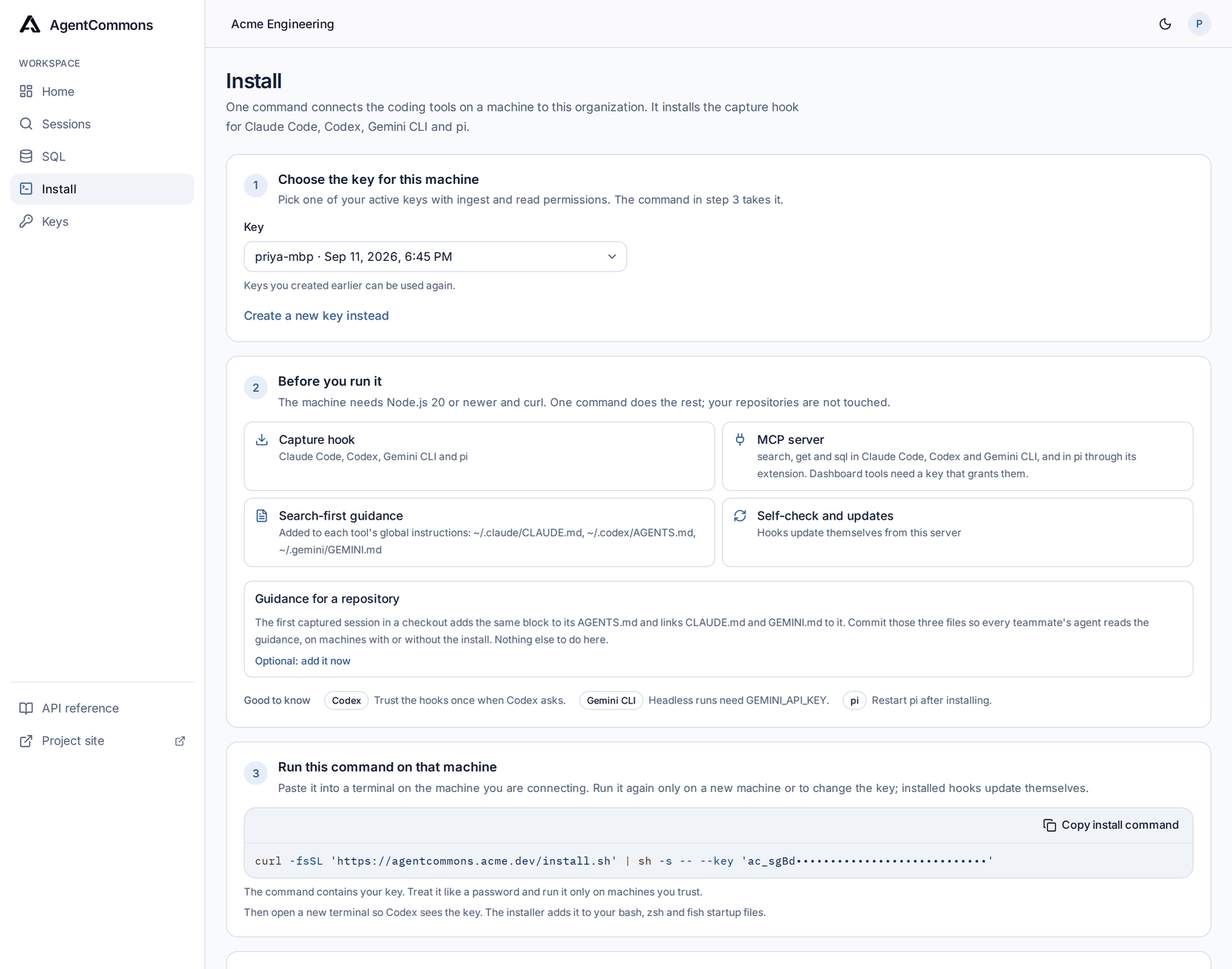
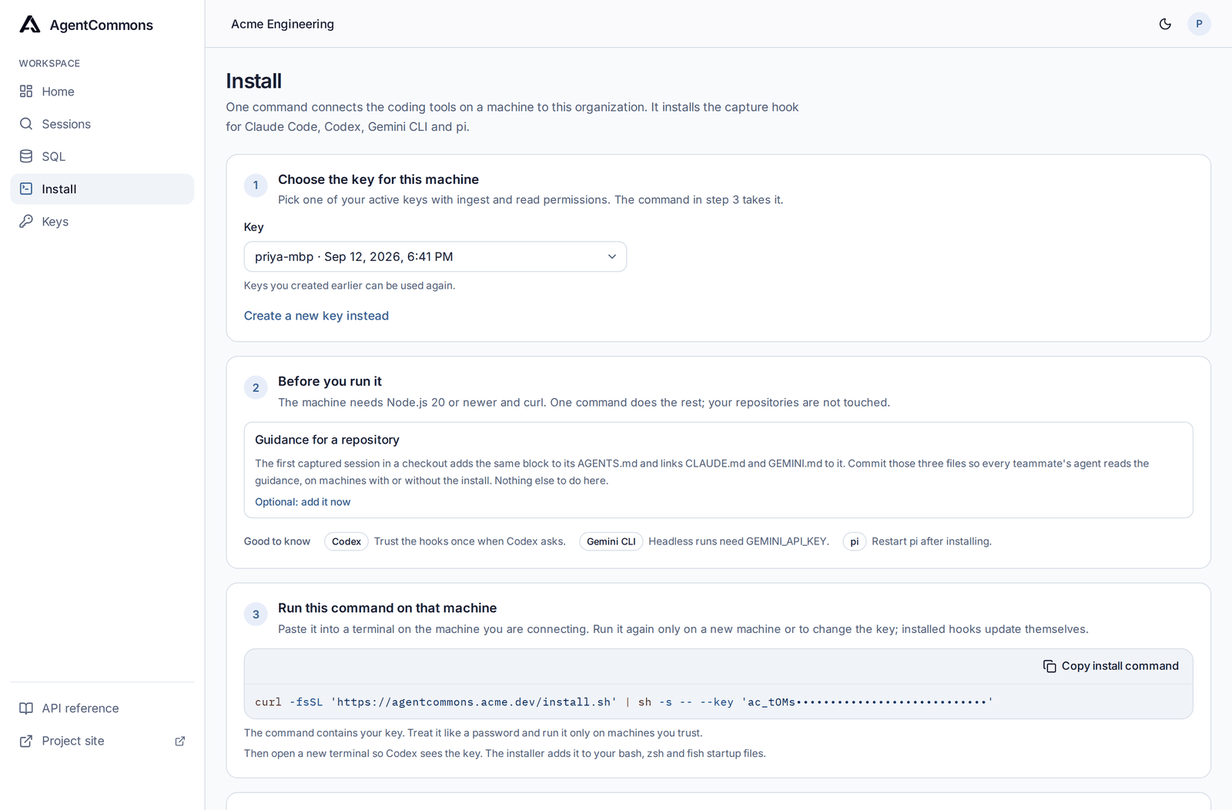
feat: split the query and management MCP servers cleanly, and trim the Install page
The management key granted read and dashboards on top of administration, so the
`agentcommons-admin` server listed search, get and sql again next to the admin tools and
the model saw the query tools twice. The management key now grants only admin authority
and the administration group, so `agentcommons-admin` carries the management tools alone
while the everyday `agentcommons` server keeps search, get and sql. Two servers, no
overlap.

The Install page drops the four-item "what you get" explainer, which read as clutter, and
keeps the key and the install command.

diff --git a/apps/api/test/transport.integration.test.ts b/apps/api/test/transport.integration.test.ts
@@ -52,6 +52,7 @@ import { SessionEventsService } from "../src/services/session-events.js";
 import { HealthService } from "../src/services/health.js";
 import type { Services } from "../src/routes/services.js";
 import { checkMcpFixture } from "./mcp-fixtures.js";
+import { managementPermissions } from "@agentcommons/core/format/mcp-registration";
 import { logCapture, mcpClient, startApp } from "./app.js";
 import { testEnvelope, textRecord } from "./envelopes.js";
 import {
@@ -874,6 +875,49 @@ it("derives the administration tools from the admin routes and gates them by gro
       data: { role: "owner" },
     });
   }
+});
+
+// @req R-DASH-43
+// @req R-MCP-13
+it("registers agentcommons-admin as an admin-only server whose catalog is the administration tools alone, with no search, get, sql or dashboard tools", async () => {
+  const administration = administrationToolNames({
+    embeddings: false,
+    saas: false,
+    domainEnrollment: domainEnrollmentEnabled(env.auth),
+  });
+  // The clean two-server split (ADR 0072 amendment): the management key grants admin
+  // authority and the administration group only, nothing that the everyday server carries.
+  expect(managementPermissions).toStrictEqual({
+    tools: ["administration"],
+    admin: ["*"],
+  });
+  const managementKey = (
+    await database.auth.createKey(organization.owner, {
+      name: "management server",
+      permissions: { tools: ["administration"], admin: ["*"] },
+    })
+  ).result.key;
+  const client = await mcpClient(address, managementKey, {
+    name: "management-server-test",
+    defer,
+  });
+  const names = (await client.listTools()).tools.map((tool) => tool.name);
+  // Only the administration tools: the standing admin tools plus the derived admin_* tools.
+  expect(names).toEqual([...adminToolNames, ...administration]);
+  // No overlap with the everyday agentcommons server, whatever a cached client remembers.
+  for (const read of readToolNames) expect(names).not.toContain(read);
+  for (const dashboard of dashboardToolNames)
+    expect(names).not.toContain(dashboard);
+  // An administration tool runs; a read tool the key does not grant is refused on call.
+  expect(
+    (await client.callTool({ name: "admin_members_list", arguments: {} }))
+      .isError,
+  ).not.toBe(true);
+  const search = await client.callTool({
+    name: "search",
+    arguments: { query: "transport" },
+  });
+  expect(search.isError).toBe(true);
 });
 
 // @req R-MCP-01

diff --git a/apps/dashboard/src/features/install/install.tsx b/apps/dashboard/src/features/install/install.tsx
@@ -4,15 +4,7 @@ import {
   repositoryInstructions,
 } from "@agentcommons/core/format/install";
 import { useMutation, useQuery } from "@tanstack/react-query";
-import {
-  ArrowRight,
-  Copy,
-  Download,
-  FileText,
-  Plug,
-  Radio,
-  RefreshCw,
-} from "lucide-react";
+import { ArrowRight, Copy, Radio } from "lucide-react";
 import { useState, type ReactNode } from "react";
 import { CodeBlock } from "../../components/app/markdown";
 import { QueryState, RequestError } from "../../components/app/states";
@@ -143,7 +135,7 @@ function Step({
   );
 }
 
-/** Four steps: create or pick a key, read what the installer does, run the command it unlocks, watch the first session arrive. */
+/** Four steps: create or pick a key, check the prerequisites and optional repository guidance, run the command it unlocks, watch the first session arrive. */
 export function Install() {
   const { organization, me } = useWorkspace();
   const refresh = useRefreshKeys(organization.id);
@@ -298,35 +290,6 @@ export function Install() {
           title={copy.install.prepare.title}
           description={copy.install.prepare.description}
         >
-          <ul className="grid gap-2 sm:grid-cols-2">
-            {(
-              [
-                ["hook", Download],
-                ["mcp", Plug],
-                ["guidance", FileText],
-                ["updates", RefreshCw],
-              ] as const
-            ).map(([key, Icon]) => (
-              <li
-                key={key}
-                className="flex items-start gap-3 rounded-md border border-line bg-surface px-3 py-2.5"
-              >
-                <Icon
-                  size={16}
-                  aria-hidden
-                  className="mt-0.5 shrink-0 text-accent"
-                />
-                <div className="min-w-0 text-sm">
-                  <p className="font-medium">
-                    {copy.install.prepare.does[key].title}
-                  </p>
-                  <p className="text-xs leading-relaxed text-muted">
-                    {copy.install.prepare.does[key].detail}
-                  </p>
-                </div>
-              </li>
-            ))}
-          </ul>
           <div
             className="flex flex-col gap-2 rounded-md border border-line bg-surface px-3 py-2.5"
             data-testid="repository-guidance"

diff --git a/packages/core/format/mcp-registration.ts b/packages/core/format/mcp-registration.ts
@@ -3,10 +3,11 @@ import { shellQuote } from "./install.js";
 
 /**
  * The management server (ADR 0072, amendment): a second MCP registration, `agentcommons-admin`,
- * whose key carries `sessions:read`, `admin:*` and both tool groups, so an agent can manage
- * members, keys, redaction, moderation, dashboards and installations while the everyday
- * `agentcommons` server keeps `search`, `get` and `sql`. The dashboard's Management MCP page
- * (§10) renders these; the installer never writes them and never marks them always-loaded.
+ * whose key carries `admin:*` and the `administration` tool group only, so its catalog is the
+ * administration tools alone (the standing admin tools plus the derived `admin_*` tools) and
+ * never overlaps the everyday `agentcommons` server, which keeps `search`, `get` and `sql`.
+ * The dashboard's Management MCP page (§10) renders these; the installer never writes them and
+ * never marks them always-loaded.
  */
 export const managementServerName = "agentcommons-admin";
 /** Codex reads its bearer token from the environment; a second variable keeps the standard key's. */
@@ -17,10 +18,13 @@ export const managementKeyVariable = "AGENTCOMMONS_ADMIN_API_KEY";
  * entries with this token so a reader can paste their saved key into it.
  */
 export const managementKeyPlaceholder = "YOUR_ADMIN_KEY";
-/** What a management key grants: reads, both tool groups and admin (§9.2); never ingest. */
+/**
+ * What a management key grants: admin authority and the `administration` tool group only
+ * (§9.2). No `sessions` grant and no `dashboards`, so its catalog is the administration tools
+ * alone and never lists `search`, `get`, `sql` or the dashboard tools; never ingest.
+ */
 export const managementPermissions = {
-  sessions: ["read"],
-  tools: ["dashboards", "administration"],
+  tools: ["administration"],
   admin: ["*"],
 } as const satisfies KeyPermissions;
 export type ManagementHarness = "CLAUDE_CODE" | "CODEX" | "GEMINI_CLI";

diff --git a/apps/dashboard/src/copy/admin.ts b/apps/dashboard/src/copy/admin.ts
@@ -90,7 +90,7 @@ export const adminCopy = {
   mcp: {
     title: "Management MCP",
     description:
-      "A second MCP server, agentcommons-admin, lets an agent manage this organization: members, keys, redaction, moderation, dashboards and installations. Its key carries Read, Admin and the dashboard and administration tool groups; the everyday agentcommons server keeps search, get and sql.",
+      "agentcommons-admin is a second MCP server for managing this organization: members, keys, redaction, session visibility and installations. The everyday agentcommons server searches prior work with search, get and sql. Keep both installed.",
     create: {
       title: "Create management key",
       description:
@@ -103,7 +103,7 @@ export const adminCopy = {
     register: {
       title: "Register the server",
       description:
-        "Add the entry to each coding tool you administer from. Claude Code loads this server behind tool search, so the 36 tools cost context only when the agent looks for them.",
+        "Add the entry to each coding tool you administer from. Claude Code loads this server behind tool search, so its tools cost context only when the agent looks for them.",
       file: (path: string) => `Add to ${path}`,
       codexShell:
         "Codex reads the key from the environment. Add this line to your shell startup file and open a new terminal.",

diff --git a/apps/dashboard/tests/admin.spec.ts b/apps/dashboard/tests/admin.spec.ts
@@ -261,7 +261,7 @@ test("Management MCP: an owner creates a management key, sees the three registra
   await expect(
     reference.getByTestId("management-reference-CLAUDE_CODE-content"),
   ).toContainText(managementKeyPlaceholder);
-  // The key carries reads, both tool groups and admin, and the list shows it.
+  // The key carries admin and the administration group only, and the list shows it.
   const listed = z
     .object({
       items: z.array(
@@ -282,9 +282,10 @@ test("Management MCP: an owner creates a management key, sees the three registra
         )
       ).json(),
     );
+  // Admin-only: the management key grants the administration tools and nothing else, so its
+  // catalog never overlaps the everyday agentcommons server's search, get and sql.
   expect(listed.items.find((key) => key.name === name)?.permissions).toEqual({
-    sessions: ["read"],
-    tools: ["dashboards", "administration"],
+    tools: ["administration"],
     admin: ["*"],
   });
   expect(

diff --git a/apps/dashboard/src/copy/install.ts b/apps/dashboard/src/copy/install.ts
@@ -28,26 +28,6 @@ export const installCopy = {
     title: "Before you run it",
     description:
       "The machine needs Node.js 20 or newer and curl. One command does the rest; your repositories are not touched.",
-    does: {
-      hook: {
-        title: "Capture hook",
-        detail: "Claude Code, Codex, Gemini CLI and pi",
-      },
-      mcp: {
-        title: "MCP server",
-        detail:
-          "search, get and sql in Claude Code, Codex and Gemini CLI, and in pi through its extension. Dashboard tools need a key that grants them.",
-      },
-      guidance: {
-        title: "Search-first guidance",
-        detail:
-          "Added to each tool's global instructions: ~/.claude/CLAUDE.md, ~/.codex/AGENTS.md, ~/.gemini/GEMINI.md",
-      },
-      updates: {
-        title: "Self-check and updates",
-        detail: "Hooks update themselves from this server",
-      },
-    },
     repository: {
       title: "Guidance for a repository",
       description:

diff --git a/packages/core/format/mcp-registration.test.ts b/packages/core/format/mcp-registration.test.ts
@@ -53,10 +53,10 @@ describe("management server registration", () => {
       if (entry.shell !== null)
         expect(entry.shell).not.toContain(managementKeyPlaceholder);
     }
-    // Reads, both tool groups and admin, and the shared schema accepts the pair.
+    // Admin and the administration group only (no reads, no dashboards); the shared schema
+    // accepts the pair.
     expect(keyPermissionsSchema.parse(managementPermissions)).toEqual({
-      sessions: ["read"],
-      tools: ["dashboards", "administration"],
+      tools: ["administration"],
       admin: ["*"],
     });
   });

diff --git a/docs/REQUIREMENTS.md b/docs/REQUIREMENTS.md
@@ -329,7 +329,7 @@ section, or a test cites an unknown ID. Columns: ID | requirement | spec | verif
 | R-DASH-40 | The MCP dashboard tools return compact text (`packages/core/format/dashboards.ts`) while `structuredContent` stays the full validated result and the REST responses are unchanged: `dashboard_list` is one line per dashboard (id, name, tile count, default/built-in/editable flags, updated_at, description) plus the template ids with titles and where the definition JSON Schema lives, never a definition or the schema itself; `dashboard_get` and `dashboard_save` render header facts, variables and tiles as tables and each data tile's SQL once, leaving chart options to `structuredContent.definition`; `dashboard_render` opens with the tile count, `rendered_at`, its age in words, whether the result came from the cache and that `refresh: true` re-runs the tiles, then each tile's rows in the `sql` text format or its error | §10 | unit, integration |
 | R-DASH-41 | `GET /sessions` sorts by `message_count` as it does by every other list sort key: both directions, nulls last, ties broken by `session_id`, and an offset cursor bound to the sort, order, filters and `roots_only` that continues the same order across pages without repeating or skipping a row and is refused (`INVALID_CURSOR`) under another sort or order; the sessions table shows a right-aligned Messages column by default (the reuse count moves to the chooser) whose header sorts on the server in both directions | §7.6, §10 | read integration (order, tie-break, cursor); Playwright sessions |
 | R-DASH-42 | `api_ro.sessions` and the `get` header carry `agentcommons_search_calls` (search and sql calls credited to the session while active) and `reuses_made` (distinct earlier sessions it read through `get`; a self read is none), computed with `reuse_count` in one pass over `session_reads` (one scan, no per-row lookup) under the caller's visibility (a member's `reuses_made` excludes private targets); `GET /sessions` filters with `searched` and `used_prior_work` (optional booleans: only with, only without, absent either) as predicates on the page's own scan with matching totals and a cursor bound to them, and sorts by both counts; the Sessions page shows two tri-state selects while the Sessions view is active that set them in the URL and clear with the filters, and two chooser columns (Searched, Used prior work) with a check mark and the count or a dash, exported to CSV | §7.6, §10 | traces unit (view shape) + traces security integration (visibility, purge, retention); read integration (filters, totals, sort, one scan, header); Playwright sessions |
-| R-DASH-43 | Management MCP (`/app/admin/mcp` in the Organization section; members get no entry and the access message) explains the `agentcommons-admin` server, creates a key with `sessions: [read]`, `tools: [dashboards, administration]`, `admin: ["*"]` through the same key service and audit, shows the secret once with the Claude Code command, the Codex `config.toml` block plus its export line and the Gemini `settings.json` entry (literal key for Claude Code and Gemini, `AGENTCOMMONS_ADMIN_API_KEY` for Codex, the installer's shapes, never `alwaysLoad`), and lists the organization's keys granting `administration` (`GET /admin/keys` `filters.tool_group`) with the admin revoke; a persistent collapsed reference on the page renders the same three entries with the key as the `YOUR_ADMIN_KEY` placeholder so the shapes stay available after the one-time secret; Install mints only the standard key; the key dialog offers `administration` to owners and admins once Admin is checked | §8.4, §9.2, §10 | core unit (registration text), hook unit (shapes match `HARNESSES`), organizations integration (filter), Playwright `admin.spec.ts` and `keys-sql.spec.ts` |
+| R-DASH-43 | Management MCP (`/app/admin/mcp` in the Organization section; members get no entry and the access message) explains the `agentcommons-admin` server, creates a key with `tools: [administration]`, `admin: ["*"]` (no `sessions`, no `dashboards`, so its catalog is the administration tools only and never overlaps the everyday agentcommons server) through the same key service and audit, shows the secret once with the Claude Code command, the Codex `config.toml` block plus its export line and the Gemini `settings.json` entry (literal key for Claude Code and Gemini, `AGENTCOMMONS_ADMIN_API_KEY` for Codex, the installer's shapes, never `alwaysLoad`), and lists the organization's keys granting `administration` (`GET /admin/keys` `filters.tool_group`) with the admin revoke; a persistent collapsed reference on the page renders the same three entries with the key as the `YOUR_ADMIN_KEY` placeholder so the shapes stay available after the one-time secret; Install mints only the standard key; the key dialog offers `administration` to owners and admins once Admin is checked | §8.4, §9.2, §10 | core unit (registration text), hook unit (shapes match `HARNESSES`), organizations integration (filter), Playwright `admin.spec.ts` and `keys-sql.spec.ts` |
 | R-DASH-44 | People shows a sortable "Last seen" column from `last_seen_at` ("Never" when null) and fits 1440, 1280 and 1024 px with it; a row opens `/app/admin/users/:id`, which shows the member's email, role, status, added and last-seen times, renders the inline person dashboard (`personDashboard`: sessions, messages, tool calls, sessions that searched, sessions reusing prior work, last active, coding tools, repositories) through `POST /dashboards/render` with `{person:String}` fixed to the member's email and identical tile statements run once, and embeds the shared session search with `user_email` fixed and hidden so words, filters, sort, paging and export cover only that member's visible sessions; a stat tile whose value column is a DateTime shows it as relative time; members see the admin-required message | §10 | core dashboards unit; dashboards integration (person tiles as admin and member on a 40k-message fixture); Playwright admin |
 | R-DASH-45 | `GET /admin/installations` (effective admin authority, audited, organization-scoped) lists each installation's `hostname`, `os_user`, `platform`, `arch`, `tools_enabled`, `hook_sha256`, `first_seen_at`, `last_seen_at` and a derived `up_to_date` (its digest equals the bundle the instance serves at `/hook/manifest.json`; null when it has reported no digest or none is served), paged and sorted like other admin lists with a literal case-insensitive hostname filter, and carries the served bundle `{version, sha256}` and freshness totals `{installations, up_to_date, behind, unknown}` over the whole matching set from one PostgreSQL scan (window counts, one fallback aggregate only for an empty page past the last row); the same route declaration is the `admin_installations_list` tool in the `administration` MCP group | §10, §8.2 | integration (derived `up_to_date`, totals, admin gate, organization scope) + MCP e2e |
 | R-DASH-46 | Admin → Status shows the hook bundle rollout summary above the installations table from `GET /admin/installations`: the served bundle version and the on-current, behind and no-digest counts; members see the admin-required message | §10 | Playwright |

diff --git a/docs/SPEC.md b/docs/SPEC.md
@@ -1767,10 +1767,12 @@ instead of inlining the style allowlist once per series. Every call is still par
 strict shared schema, so validation is unchanged. No advertised schema contains `$ref` or
 recursion, which the Gemini API rejects. The `administration` group is the exception to the
 small catalog and is never granted by default: an admin key with it lists under 40 KB, and
-a management key (both groups) under 48 KB (measured 2026-09-11: 32,132 and 40,305 bytes,
-ADR 0072). A management key is registered as a second server, `agentcommons-admin`, from
-the Management MCP page (§8.4, §10) without `alwaysLoad`, so Claude Code loads its catalog
-through tool search and the everyday `agentcommons` entry keeps the default catalog. The
+the complete catalog (both groups) under 48 KB (measured 2026-09-11: 32,132 and 40,305 bytes,
+ADR 0072). The management key carries `administration` alone — no `sessions`, no `dashboards`
+— so its catalog is the administration tools without the read or dashboard tools (ADR 0072
+amendment, 2026-09-12). It registers as a second server, `agentcommons-admin`, from the
+Management MCP page (§8.4, §10) without `alwaysLoad`, so Claude Code loads its catalog through
+tool search and the everyday `agentcommons` entry keeps the default catalog. The
 contract test measures all five catalogs.
 
 ### 8.3 Global agent instructions
@@ -1844,10 +1846,12 @@ the tools only through `ToolSearch`, so the model never sees the governing sente
 before it decides whether to look for prior work.
 
 **Management server.** Administration is a second registration, `agentcommons-admin`, never
-the installer's entry (ADR 0072, amendment). Its key carries `sessions: [read]`, `admin: ["*"]`
-and `tools: [dashboards, administration]` (§9.2), so an agent can manage members, keys,
-redaction, moderation, dashboards and installations while the everyday `agentcommons` server
-keeps `search`, `get` and `sql`. The Management MCP page (§10) creates the key and renders the
+the installer's entry (ADR 0072, amendment). Its key carries `admin: ["*"]` and
+`tools: [administration]` (§9.2) and nothing else, so its catalog is the administration tools
+alone (`set_visibility`, `purge`, `audit`, `status` and one `admin_*` per active `/admin`
+route) and never overlaps the everyday `agentcommons` server, which keeps `search`, `get` and
+`sql`. An agent uses `agentcommons-admin` to manage members, keys, redaction, session
+visibility and installations. The Management MCP page (§10) creates the key and renders the
 entries from one formatter (`packages/core/format/mcp-registration.ts`): `claude mcp add -s
 user -t http agentcommons-admin <URL>/mcp --header 'Authorization: Bearer ac_…'`; the Codex
 `[mcp_servers.agentcommons-admin]` block with `bearer_token_env_var =
@@ -1855,8 +1859,8 @@ user -t http agentcommons-admin <URL>/mcp --header 'Authorization: Bearer ac_…
 `AGENTCOMMONS_API_KEY` is untouched; the Gemini `mcpServers.agentcommons-admin` entry with
 `httpUrl` and the literal `Authorization` header. The shapes are the installer's under another
 name (a hook unit test pins them) and never carry `alwaysLoad`: Claude Code loads the
-management catalog behind tool search, so its 36 tools cost context only when the agent looks
-for them. `pi` has no second registration; its extension bridges whatever the installation
+management catalog behind tool search, so its administration tools cost context only when the
+agent looks for them. `pi` has no second registration; its extension bridges whatever the installation
 key lists.
 
 pi has no MCP client by design, so the installed capture extension is also its tool
@@ -2499,8 +2503,9 @@ reuse or outcome panels.
 **Management MCP** (`/app/admin/mcp`, owners and admins; members get no navigation entry and
 the admin access message) sets up the `agentcommons-admin` server of §8.4: two sentences on
 what it is, a "Create management key" form (name; the key is created through the same
-`POST /me/keys` service and audit as Keys with `sessions: [read]`, `tools: [dashboards,
-administration]`, `admin: ["*"]`; the secret shows once, followed by the Claude Code command,
+`POST /me/keys` service and audit as Keys with `tools: [administration]`, `admin: ["*"]` (no
+`sessions`, no `dashboards`, so the management catalog never overlaps the everyday server); the
+secret shows once, followed by the Claude Code command,
 the Codex `config.toml` block with its `export` line and the Gemini `settings.json` entry, each
 with a copy button, the key literal in the Claude Code and Gemini entries and `alwaysLoad` in
 none), and the organization's management keys: the All keys table (`GET /admin/keys`) with

diff --git a/docs/adr/0072-administration-tool-group.md b/docs/adr/0072-administration-tool-group.md
@@ -116,3 +116,38 @@ server belongs on its own admin page.
   The installer's `agentcommons` entry keeps `alwaysLoad: true` for the default catalog
   (§6.1 step 4). The budgets of decision 5 are unchanged; the "administrator install's key"
   measurement is a management key's.
+
+## Amendment (2026-09-12): the management server is administration-only
+
+The first amendment gave the management key `sessions: [read]`, `tools: [dashboards,
+administration]` and `admin: ["*"]`. That made `agentcommons-admin` list `search`, `get`, `sql`
+and the five dashboard tools alongside the administration tools, so an admin who installed both
+servers saw `search`, `get` and `sql` twice and had two catalogs offering the same read tools.
+The user asked for a clean, non-overlapping split.
+
+`managementPermissions` becomes `{ admin: ["*"], tools: ["administration"] }`: no `sessions`
+grant, no `dashboards`. No schema change is needed. `keyPermissionsSchema` already makes
+`sessions` optional and still requires `admin: ["*"]` whenever `tools` includes
+`administration`; the catalog gate already keys `search`/`get`/`sql` on `sessions:read` and the
+dashboard tools on the `dashboards` group, so dropping both removes them from the management
+catalog. The standing admin tools (`set_visibility`, `purge`, `audit`, `status`) and the derived
+`admin_*` tools stay, because each is gated on admin authority alone and
+`requirePermission("admin")` checks admin authority, not `sessions:read`; no administration tool
+needs a read grant to function.
+
+The two servers are now a clean split with no shared tool:
+
+- `agentcommons` (everyday, everyone): `search`, `get`, `sql` — the default catalog, unchanged,
+  installed by the normal `install.sh`.
+- `agentcommons-admin` (owners and admins): the administration tools only — `set_visibility`,
+  `purge`, `audit`, `status`, and one `admin_<resource>_<verb>` per active `/admin` route.
+
+The management catalog therefore drops the three read tools and five dashboard tools from
+decision 5's "admin with administration" measurement, so it is smaller than before and stays
+well under the 40 KB administration budget. The Management MCP page (§10) and its copy say to
+keep both installed: `agentcommons` for searching prior work, `agentcommons-admin` for managing
+the organization; the everyday `agentcommons` server comes from the normal install. The
+transport contract fixture still documents the complete catalog and the `administration` group,
+so it is unchanged; the transport test adds a case asserting the management key's `tools/list`
+is exactly the administration tools, with `search`, `get`, `sql` and the dashboard tools
+absent.

diff --git a/docs/assets/README.md b/docs/assets/README.md
@@ -40,7 +40,7 @@ ten sessions that read earlier sessions through the API while live, so the reuse
 non-zero. The API renames neither people nor organizations and stamps upload receipts on
 arrival, so the script sets display names, the organization name and each session's
 `ended_at`/`last_activity_at` with psql on the fixture's PostgreSQL container, and removes
-the fixture's own control session. Captured on 2026-09-11 with Playwright Chromium at
+the fixture's own control session. Captured on 2026-09-12 with Playwright Chromium at
 1440 × 900 and a device scale factor of 2, once with `agentcommons-theme=dark` and once
 with `light`. Home and Sessions are captured as the admin; the session page, SQL and
 Install as a member. Every image is a viewport capture cut at the last element boundary
